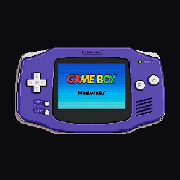
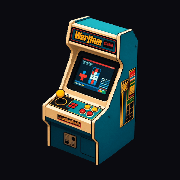
feat(brand): 站点标识改用 NEOGEO 街机柜素材
- logo-mark.png 换成 neogeo.png 裁切版（293×454 主体，输出 114×176）
- 导航栏 logo 高度 h-9 → h-12（48px），竖构图街机柜在 64px 高的导航栏里更有分量
- favicon / apple-touch-icon 同步换成街机柜（深色底 64/180）
- 后台「站点标识」槽位提示同步为 NEOGEO

diff --git a/web/src/components/Layout.tsx b/web/src/components/Layout.tsx
@@ -37,11 +37,11 @@ function Logo() {
         />
       ) : (
         <>
-          {/* 站点标识：GBA 素材包图标（透明底，深色导航栏直接压上去即可） */}
+          {/* 站点标识：NEOGEO 街机柜素材（透明底，竖构图，比文字块高一点压住视线） */}
           <img
             src="/brand/logo-mark.png"
             alt={tx('brand.name') || 'ABXY ARCADE'}
-            className="pixel-img h-9 w-auto shrink-0 object-contain"
+            className="pixel-img h-12 w-auto shrink-0 object-contain"
           />
           <span className="hidden flex-col leading-none sm:flex">
             <span className="font-pixel text-[11px] tracking-tight text-white">

diff --git a/server/assets.js b/server/assets.js
@@ -20,7 +20,7 @@ const BASE_SLOTS = [
     label: '站点标识',
     group: '通用',
     ratio: '240 × 64',
-    hint: '留空则显示内置 GBA 图标 + 文字标识；上传后整块替换，透明 PNG 最佳（高 64px 起）',
+    hint: '留空则显示内置 NEOGEO 街机柜图标 + 文字标识；上传后整块替换，透明 PNG 最佳（高 64px 起）',
   },
   {
     key: 'og_image',
